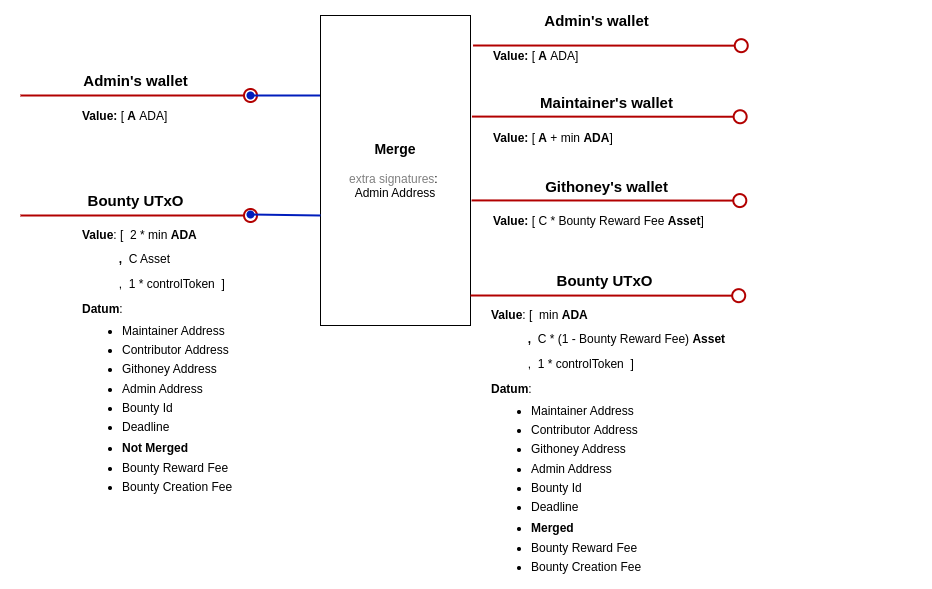
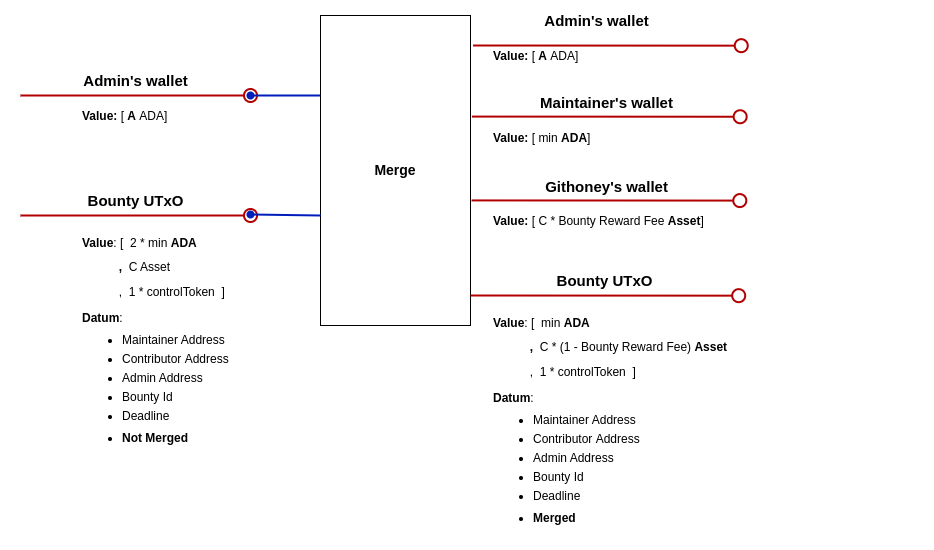
Design and requeriments fixes

diff --git a/docs/design.md b/docs/design.md
@@ -4,39 +4,36 @@
 
 This document describes the technical design of the GitHoney dApp - the script UTxOs involved, the operations that take place during the bounty lifecycle, and the necessary validators and minting policies.
 
-There will be a single `BountyUtxo` for each bounty, which will hold the reward assets deposited by the maintainers. A `ControlToken` will be minted and held in the `BountyUtxo` until a contributor is assigned to the bounty, at which point their `PaymentPubKeyHash` will be added to the datum. The `ControlToken` ensures the correctness of the `BountyUtxo` datum.
+There will be a single `BountyUtxo` for each bounty, which will hold the reward assets deposited by the maintainers. A `ControlToken` will be minted and held in the `BountyUtxo` during the bounty creation. Initially, the contributor field in the datum will be null until a developer decides to work on that bounty, at which point their `PaymentPubKeyHash` will be added to the datum. The `ControlToken` ensures the correctness of the `BountyUtxo` datum, the initial payment of the bounty creation fee to GitHoney, and also that the reward assets are not null.
 
-## UTxOs specification
+## UTxOs Specification
 
 ### BountyUtxo:
 
 > #### Address
 >
-> - Parameterized on the `GitHoneyAddress` and `Policy id`.
+> - Parameterized on the `GitHoneyAddress`, `BountyCreationFee`, and `BountyRewardFee`.
 >
 > #### Datum
 >
 > - maintainer: **PaymentPubKeyHash**
 > - admin: **PaymentPubKeyHash**
-> - githoney: **PaymentPubKeyHash**
-> - contributor: **Optional( PaymentPubKeyHash )** (if assigned)
+> - contributor: **Optional(PaymentPubKeyHash)** (if assigned)
 > - deadline: **POSIXTime**
 > - bounty_id: **String**
 > - merged: **Bool**
-> - creation_fee: **BigInt**
-> - reward_fee: **BigInt**
 >
 > #### Value
 >
 > - minAda
-> - reward_assets: **MultiAsset**
+> - reward_assets
 > - `ControlToken`
 
 ## Transactions
 
 ### Create BountyUtxo:
 
-This transaction creates a `BountyUtxo` locking the reward assets and minting a `ControlToken`. It sets the maintainer, deadline, bounty_id, admin, and merged (False) in the datum.
+This transaction creates a `BountyUtxo` locking the reward assets plus min ADA and a `ControlToken`. It sets the maintainer, deadline, bounty_id, admin, and merged (False) in the datum.
 
 ![createBounty diagram](img/createBounty.png)
 
@@ -48,19 +45,19 @@ Adds additional reward assets to an existing `BountyUtxo`.
 
 ### Assign Contributor:
 
-Sets the contributor's `PaymentPubKeyHash` to the `BountyUtxo` datum.
+Sets the contributor's `PaymentPubKeyHash` to the `BountyUtxo` datum and adds the contributor's min ADA to the value.
 
 ![assignContributor diagram](img/assignContributor.png)
 
 ### Close Bounty:
 
-Returns the all the assets to the maintainer and burns the `ControlToken`.
+Returns all the assets to the maintainer and burns the `ControlToken`.
 
 ![closeBounty diagram](img/close.png)
 
 ### Merge Bounty:
 
-Pays to Githoney the reward assets times `BountyRewardFee`. Updates the merged field to True.
+Pays GitHoney the reward assets times `BountyRewardFee`. Updates the merged field to True. The contributor's min ADAs remain in the UTxO.
 
 ![mergeBounty diagram](img/merge.png)
 
@@ -74,58 +71,61 @@ Pays the contributor the remaining reward assets and burns the `ControlToken`.
 
 ### BountyValidator:
 
-- Params: `PolicyID`, `GithoneyAddress`.
+- Params: `GitHoneyAddress`, `BountyCreationFee`, and `BountyRewardFee`.
 
 #### _AddReward Redeemer_
 
+- `BountyUtxo` input with a control token.
 - The `deadline` has not been reached.
-- `BountyUtxo` output value includes input value plus additional reward assets.
+- `BountyUtxo` output value includes the input value plus additional reward assets.
 - Datum doesn't change.
 
 #### _AssignContributor Redeemer_
 
+- `BountyUtxo` input with a control token.
 - The `deadline` has not been reached.
 - The `contributor` field in the datum is null.
-- Contributor's `PaymentPubKeyHash` is added to the `BountyUtxo` datum.
-- Utxo assets are the same plus min ADAs payed by the `contributor`.
+- Contributor's `PaymentPubKeyHash` is added to the `BountyUtxo` datum, and the rest of the datum fields are the same.
+- UTxO assets are the same plus min ADAs.
 
 #### _CloseBounty Redeemer_
 
-- `BountyUtxo` input.
+- `BountyUtxo` input with a control token.
 - `ControlToken` is burnt.
 - Reward assets and the min ADAs are paid back to the maintainer.
-- Datum Admin address is present in the signers.
+- Datum Admin address signed the transaction.
 
 #### _MergeBounty Redeemer_
 
-- `BountyUtxo` input.
+- `BountyUtxo` input with a control token.
 - The merged field is False.
 - The `deadline` has not been reached.
-- Reward assets times `BountyRewardFee` are paid to the `GitHoneyAddress`, the min ADAs are paid back to the mantainer, and the rest of the assets remain in the utxo.
-- Datum Admin address is present in the signers.
-- Datum merged field is updated to True.
+- Reward assets times `BountyRewardFee` is paid to the `GitHoneyAddress`, the min ADAs are paid back to the maintainer, and the rest of the assets remain in the UTxO.
+- Datum Admin address signed the transaction.
+- Datum merged field is updated to True, and the rest of the datum fields are the same.
 
 #### _ClaimBounty Redeemer_
 
-- `BountyUtxo` input
+- `BountyUtxo` input with a control token.
 - The merged field is True.
 - `ControlToken` is burnt.
-- Remaining reward assets in utxo are payed to the `contributor`'s `PaymentPubKeyHash`.
+- Remaining reward assets in UTxO are paid to the `contributor`'s `PaymentPubKeyHash`.
 
 ### mintingPolicy:
 
-- Params: `BountyCreationFee`, `BountyRewardFee`, `BountyValidatorAddress`, `GitHoneyAddress`.
+- Params: `BountyCreationFee`, `BountyRewardFee`, `GitHoneyAddress`.
 
 #### MINT:
 
 - A single `ControlToken` is minted.
 - The minted token and the min ADAs are paid to the `BountyValidatorAddress`.
+- There are some reward assets paid to the `BountyUtxo`.
 - The datum of the `BountyUtxo` is checked for correctness:
-  - `githoney` Address must be the same as the parameter.
-  - Deadline must be in the future.
-  - Merged field must be False.
-  - Bounty Reward Fee must be equal or grater than 0 and less than 1.
-  - Bounty Creation Fee must be greater than 0.
+- Deadline must be in the future.
+- Merged field must be False.
+- Contributor field must be null.
+- Bounty Reward Fee must be equal to or greater than 0 and less than 1.
+- Bounty Creation Fee must be greater than 0.
 
 #### BURN:
 

diff --git a/docs/requeriments.md b/docs/requeriments.md
@@ -1,44 +1,29 @@
+# Bounty Management System On-Chain Validation
+
 Provide the on-chain validation for a bounty management system.
 
 In the GitHoney system, there are three main actors:
 
-- **Maintainer**: This is the individual or team maintaining a GitHub
-  repository and has a task that requires completion within a
-  deadline.
+- **Maintainer**: An individual or team maintaining a GitHub repository and having a task that requires completion within a deadline.
 
-- **Contributor**: This is the individual or team that can complete
-  the task by submitting a PR.
+- **Contributor**: An individual or team that can complete the task by submitting a Pull Request (PR).
 
-- **Admin**: A control actor that approves the changes made by the
-  contributor and checks that the maintainer doesn't close the
-  bounty when the PR is correct, in other words, works as an oracle
-  of the work done. Is responsible for accepting the pay to the
-  contributor or reclaim of the deposit assets by the
-  maintainer.
+- **Admin**: A control actor that approves the changes made by the contributor and checks that the maintainer doesn't close the bounty when the PR is correct, in other words, it works as an oracle of the work done. The Admin is responsible for accepting the payment to the contributor or reclaiming the deposited assets by the maintainer.
 
-### The process flow:
+### The Process Flow:
 
-1.  A maintainer creates a bounty and deposits the **reward assets**
-    (multiasset) indicating the **deadline** to complete the
-    task.
+1. A maintainer creates a bounty and deposits the **reward assets** (multi-asset) indicating the **deadline** to complete the task.
 
-2.  (**optional**) Anyone can deposit more assets to increase the
-    rewards.
+2. (**Optional**) Anyone can deposit more assets to increase the rewards.
 
-3.  A contributor indicates that is willing to work on the task and is
-    assigned to the bounty, only one contributor can do it.
+3. A contributor indicates their willingness to work on the task and is assigned to the bounty. Only one contributor can be assigned.
 
-4.  (**optional**) The contributor can decide to delegate the work of
-    the assigned bounty to another.
+4. The admin decides if the bounty is **closed** or **merged**. The former means that the funds are sent back to the maintainer, and the latter means that the contributor receives their payment.
 
-5.  The admin decides if the bounty is **closed** or **merged**, the
-    former means that the funds are sent back to the maintainer and
-    the merge means that the contributor receives their pay.
+In case the deadline is reached before the bounty is merged, the only possible resolution is to close the bounty, even if a contributor is already assigned.
 
-### Githoney Fees:
+### GitHoney Fees:
 
-- **Bounty Creation Fee**: The cost of creating a bounty, This is
-  planned to be either 1 or 2 ada.
+- **Bounty Creation Fee**: The cost of creating a bounty. This is planned to be either 1 or 2 ADA.
 
-- **Bounty Reward Fee**: This fee is to be paid to GitHoney if PR is
-  merged. It will be 5% of the rew
+- **Bounty Reward Fee**: This fee is to be paid to GitHoney if the PR is merged. It will be 5% of the reward.
